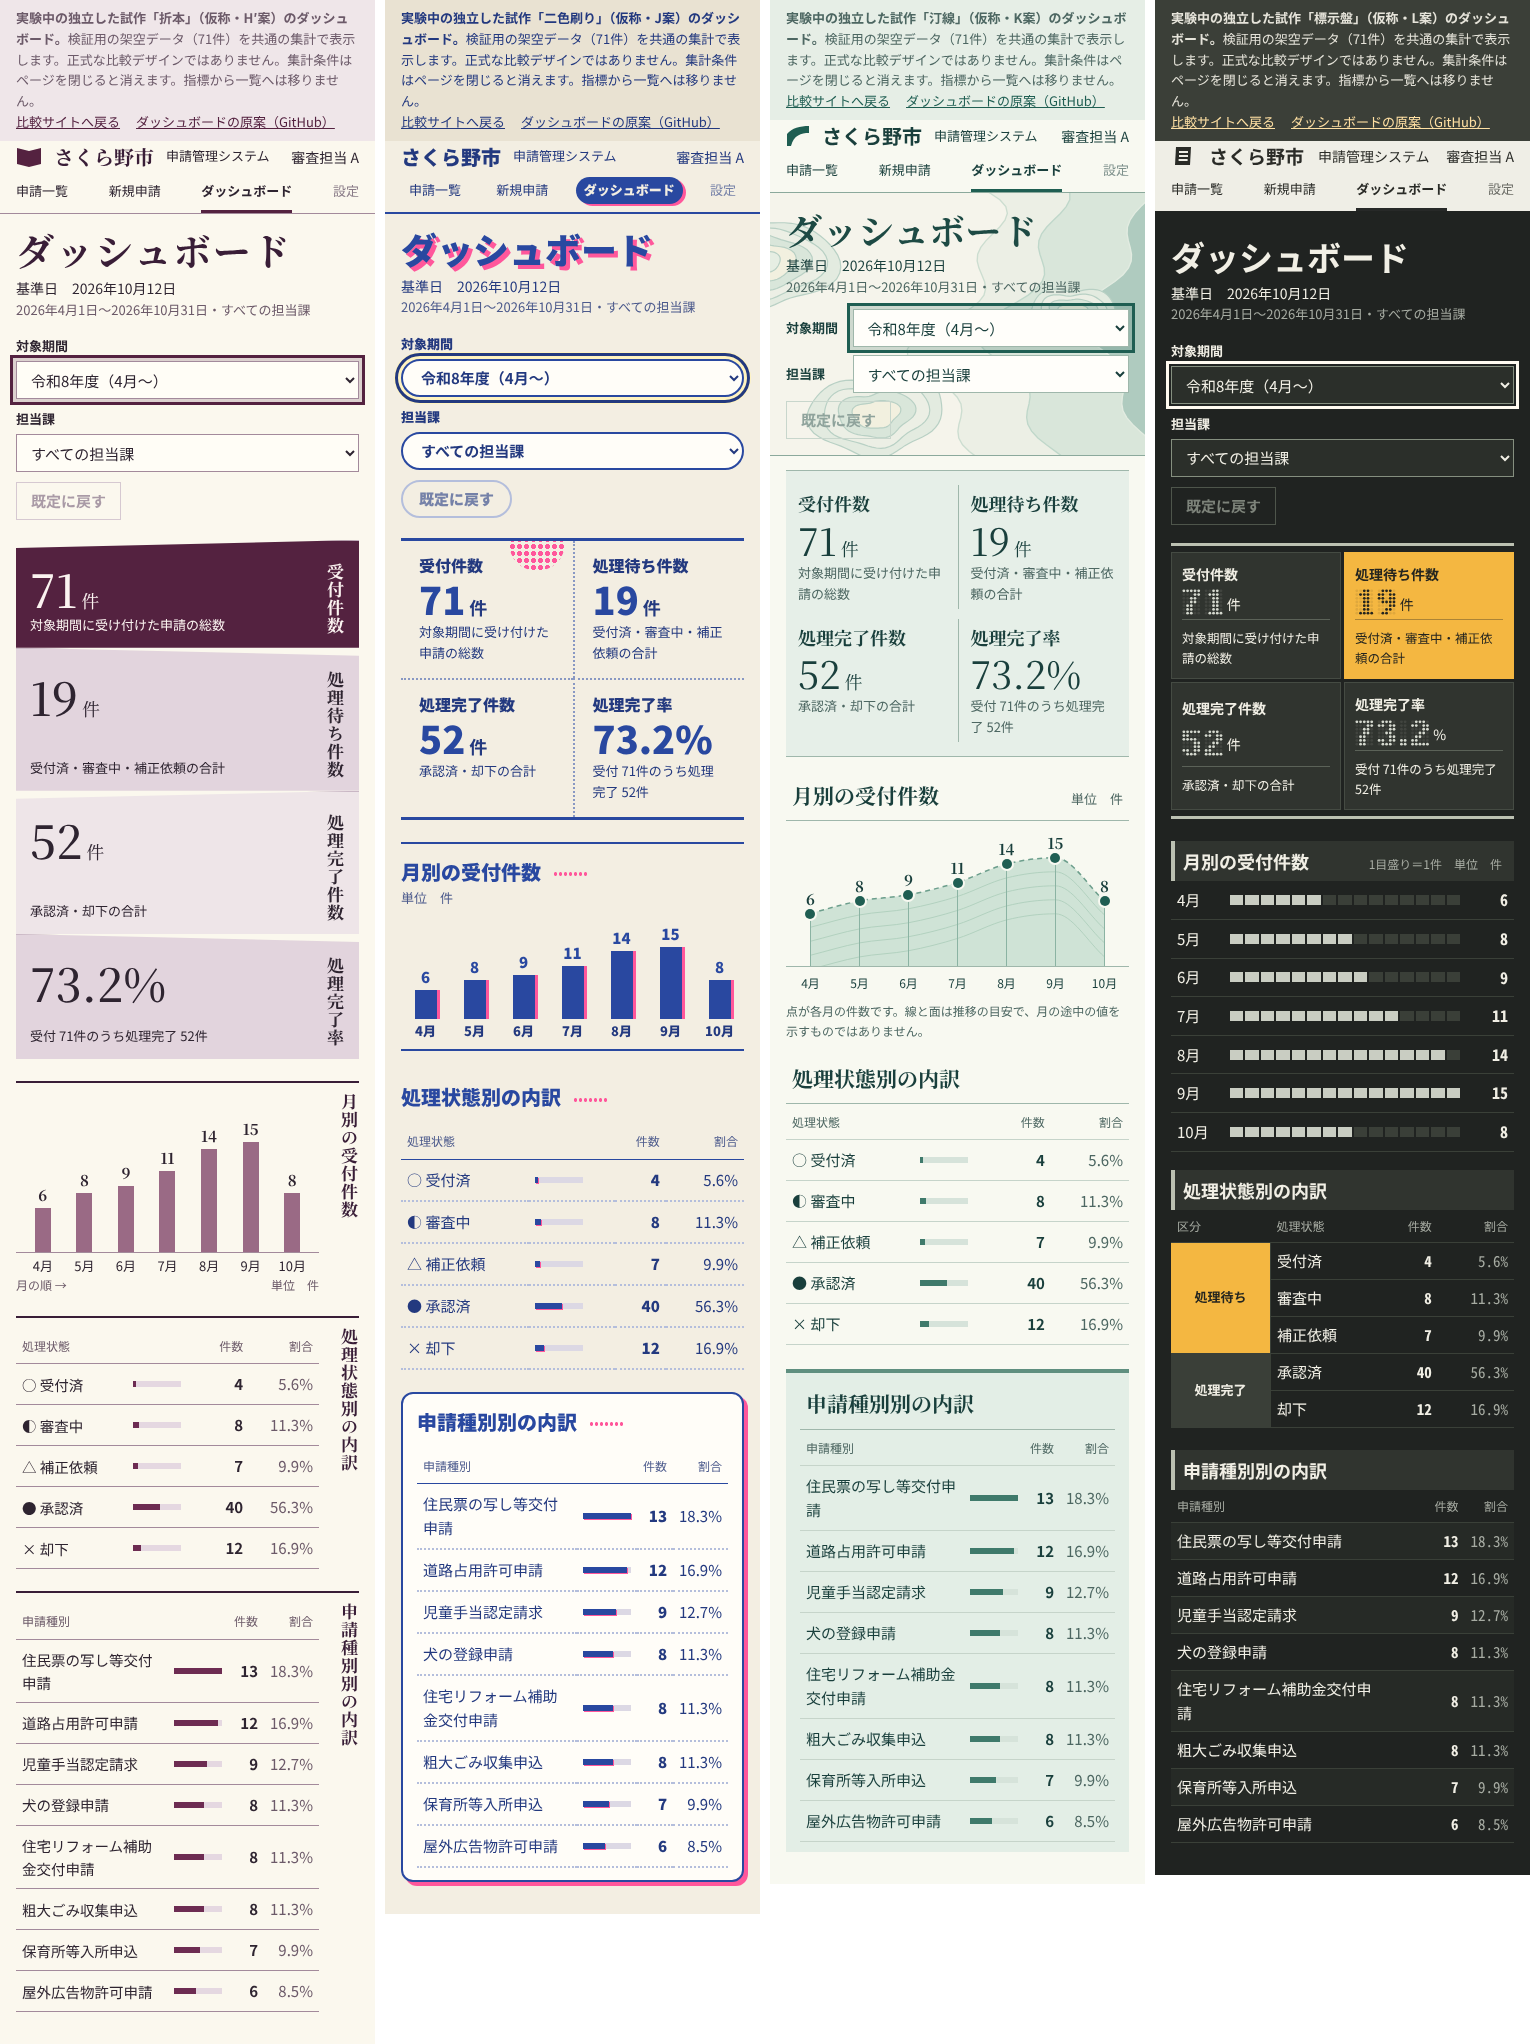
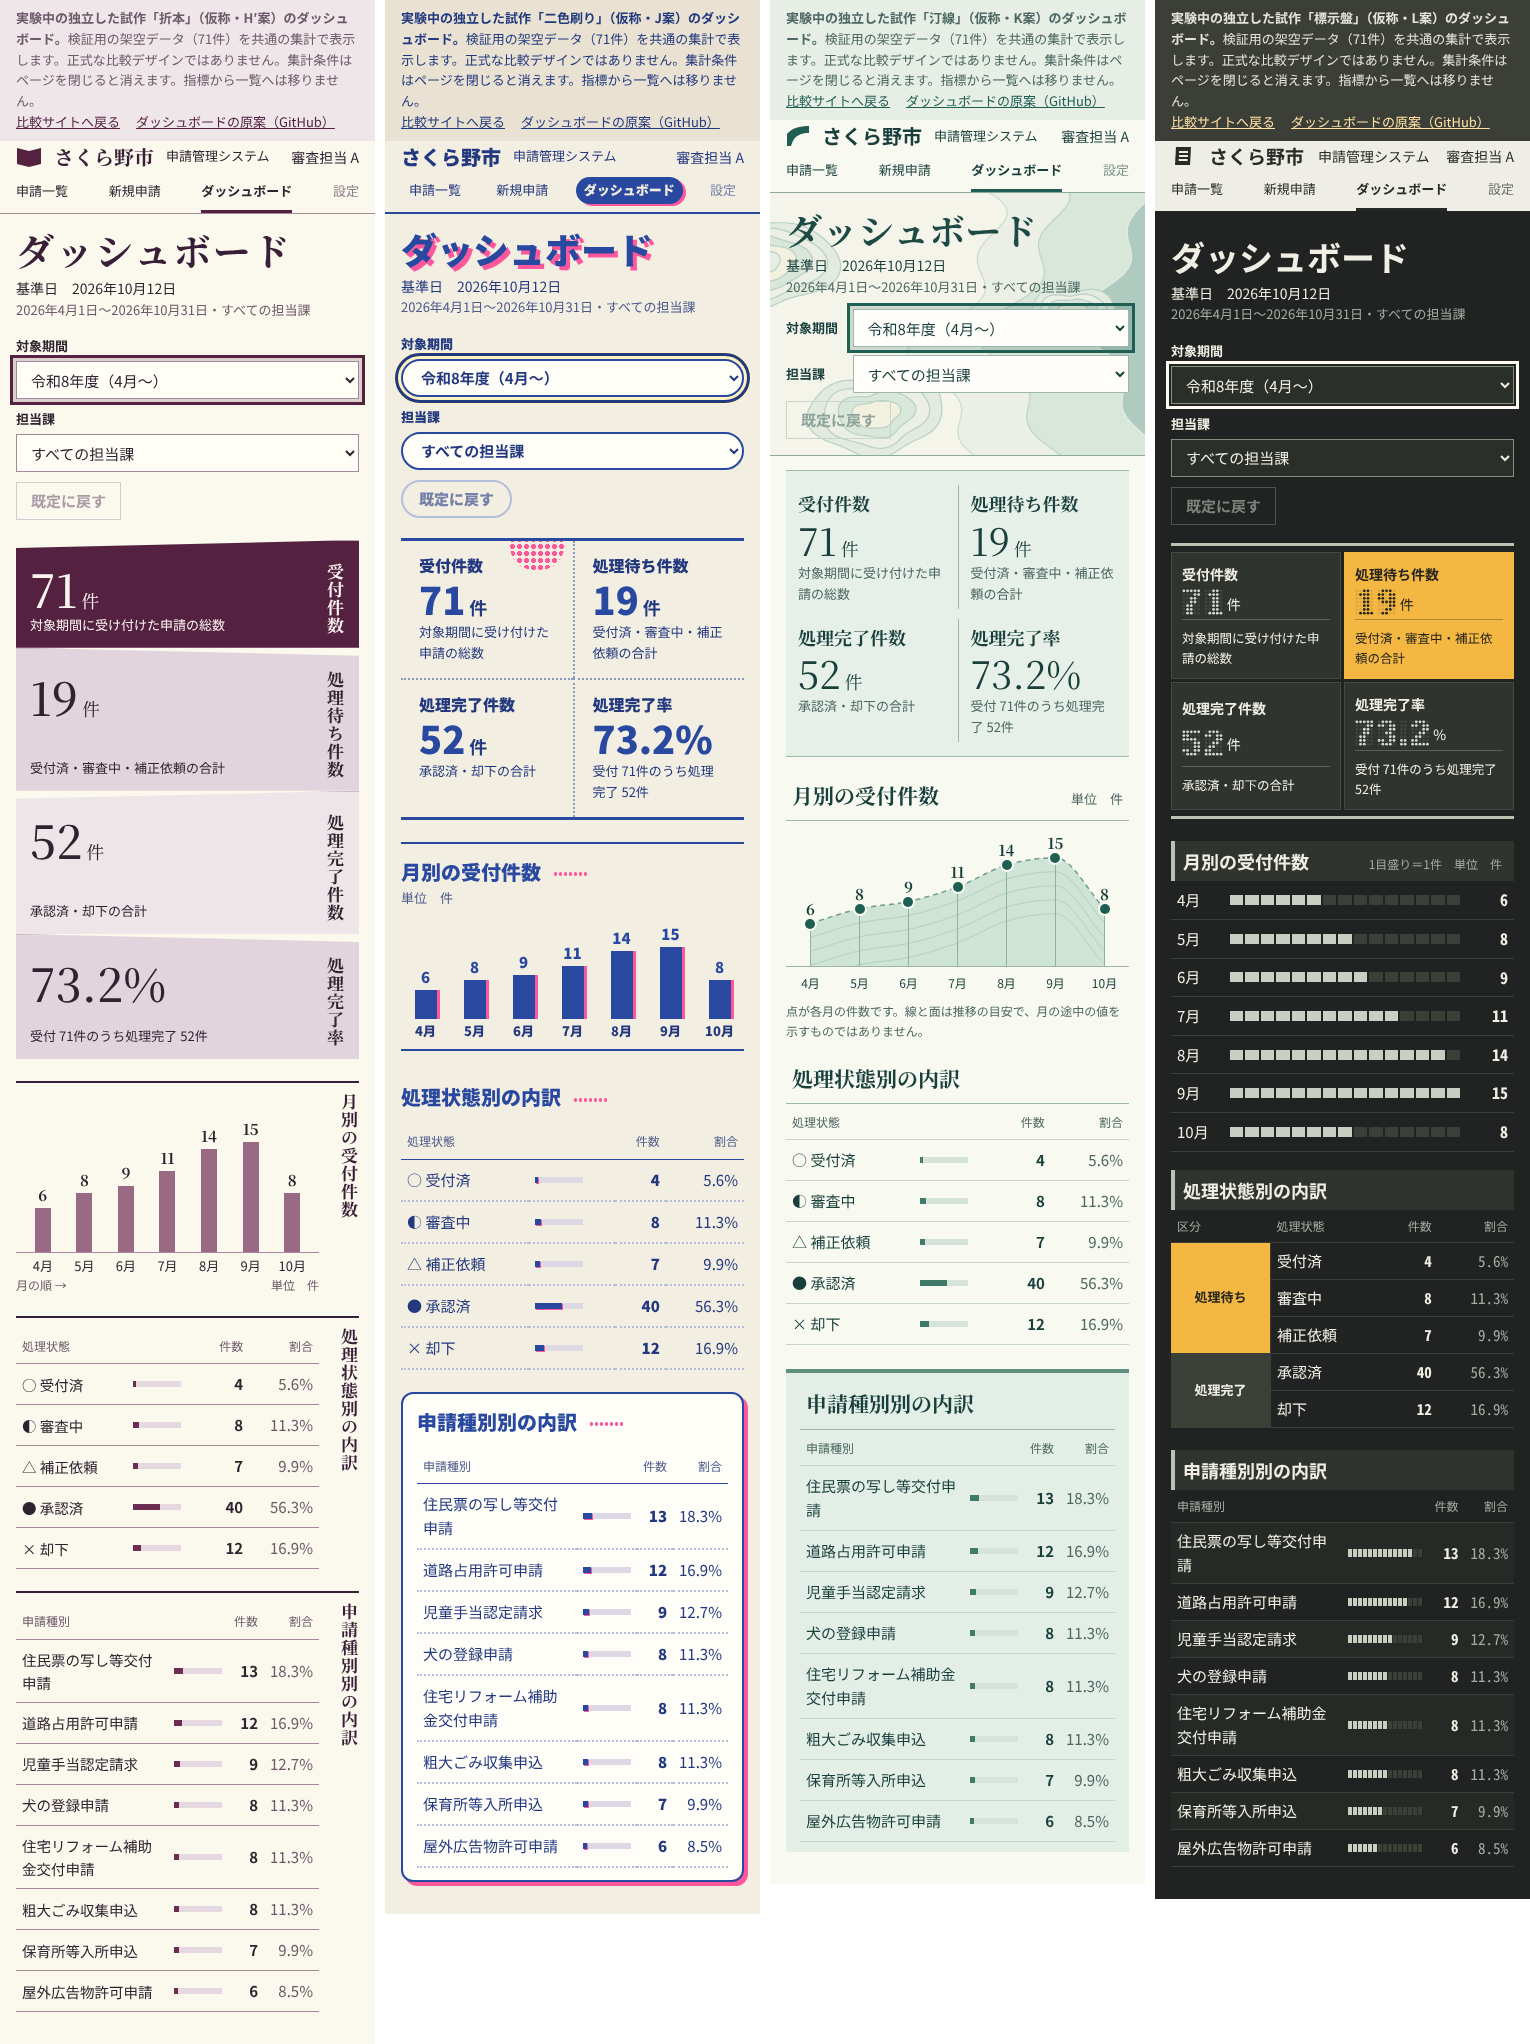
レビュー指摘に対応：種別の棒の尺度、L の375px目盛り、K の0件の月
- H′・J・K：申請種別の棒を受付総数に対する構成比で描き、隣の割合と同じ尺度にした。
  共通モデルの tenths を使い、dashboard.js は変えていない
- L：1目盛りを最低3pxにした。375px では種別の目盛り列に幅を確保し、0幅で消えないようにした
- K：点の高さを件数に比例させた（底上げしない）。0件の月は点・縦の線・面を基準線に置く
- 最小限のテストを追加
  - 棒の長さと割合（18.3%・100%）
  - K の0件の月の位置
  - L の375pxの目盛り幅と点灯数
- このPRで追加した画面写真と説明を更新

Claude-Session: https://claude.ai/code/session_016WQqJD6APGGPPhg2SEfqha

Changed region(s): [[0.7373, 0.7397, 1.0, 0.9555], [0.5222, 0.4315, 0.6144, 0.4623], [0.7065, 0.4315, 0.7373, 0.4623]]

diff --git a/site/experiments/k-shoreline-dashboard/k-dash-view.js b/site/experiments/k-shoreline-dashboard/k-dash-view.js
@@ -2,12 +2,15 @@
 // 月別は、月ごとの点・縦の目盛り線・件数で離散値を示し、滑らかな線と面は推移の目安として淡く添える。値は buildDashboardModel のまま。
 
 import { html, raw } from '../../assets/js/html.js';
-import { STATUS_MARK, conditionFields } from '../shared/dashboard-parts.js';
+import { STATUS_MARK, conditionFields, shareRatio } from '../shared/dashboard-parts.js';
 
 const bar = (ratio) => html`<span class="kd-mini" aria-hidden="true"><i style="width:${(ratio * 100).toFixed(1)}%"></i></span>`;
 
-/** 月の点の位置（横は各月の列の中央、縦は件数の比）。 */
-const points = (months) => months.map((m, i) => ({ x: ((i + 0.5) / months.length) * 100, y: 12 + m.ratio * 66, m }));
+/**
+ * 月の点の位置（横は各月の列の中央、縦は件数に比例）。0件の月は基準線（y=0）に置き、点・縦の線・面がそこから立ち上がる。
+ * 最多の月を 78%（上に件数を書く余白を残す）とする比例の目盛りで、底上げはしない。
+ */
+export const points = (months) => months.map((m, i) => ({ x: ((i + 0.5) / months.length) * 100, y: m.ratio * 78, m }));
 
 /**
  * 点を通る滑らかな曲線（単調3次補間：Fritsch–Carlson）。SVG の座標は上が 0。
@@ -63,7 +66,7 @@ const table = (caption, head, rows, empty) => html`<table class="kd-table"><capt
 
 export function view(d) {
   const statusRows = d.statuses.map((s) => html`<tr><th scope="row"><span aria-hidden="true">${STATUS_MARK[s.value]} </span>${s.label}</th><td>${bar(s.ratio)}</td><td class="kd-num" data-status="${s.value}">${s.count}</td><td class="kd-num kd-share" data-status-share="${s.value}">${s.shareText}</td></tr>`);
-  const typeRows = d.types.map((t) => html`<tr><th scope="row">${t.type}</th><td>${bar(t.ratio)}</td><td class="kd-num" data-type-count="${t.type}">${t.count}</td><td class="kd-num kd-share" data-type-share="${t.type}">${t.shareText}</td></tr>`);
+  const typeRows = d.types.map((t) => html`<tr><th scope="row">${t.type}</th><td>${bar(shareRatio(t))}</td><td class="kd-num" data-type-count="${t.type}">${t.count}</td><td class="kd-num kd-share" data-type-share="${t.type}">${t.shareText}</td></tr>`);
   return html`
     <div class="kd-hero">
       <div class="kd-hero__text">

diff --git a/site/experiments/j-risograph-dashboard/j-dash-view.js b/site/experiments/j-risograph-dashboard/j-dash-view.js
@@ -2,7 +2,7 @@
 // 青の版に数値と棒、ピンクの版は版ずれ・網点の飾りに限る。値はすべて buildDashboardModel のまま表示する。
 
 import { html } from '../../assets/js/html.js';
-import { STATUS_MARK, conditionFields } from '../shared/dashboard-parts.js';
+import { STATUS_MARK, conditionFields, shareRatio } from '../shared/dashboard-parts.js';
 
 const bar = (ratio) => html`<span class="jd-mini" aria-hidden="true"><i style="width:${(ratio * 100).toFixed(1)}%"></i></span>`;
 
@@ -12,7 +12,7 @@ const table = (caption, head, rows, empty) => html`<table class="jd-table"><capt
 
 export function view(d) {
   const statusRows = d.statuses.map((s) => html`<tr><th scope="row"><span aria-hidden="true">${STATUS_MARK[s.value]} </span>${s.label}</th><td>${bar(s.ratio)}</td><td class="jd-num" data-status="${s.value}">${s.count}</td><td class="jd-num jd-share" data-status-share="${s.value}">${s.shareText}</td></tr>`);
-  const typeRows = d.types.map((t) => html`<tr><th scope="row">${t.type}</th><td>${bar(t.ratio)}</td><td class="jd-num" data-type-count="${t.type}">${t.count}</td><td class="jd-num jd-share" data-type-share="${t.type}">${t.shareText}</td></tr>`);
+  const typeRows = d.types.map((t) => html`<tr><th scope="row">${t.type}</th><td>${bar(shareRatio(t))}</td><td class="jd-num" data-type-count="${t.type}">${t.count}</td><td class="jd-num jd-share" data-type-share="${t.type}">${t.shareText}</td></tr>`);
   return html`
     <div class="jd-head">
       <div><h1 class="jd-title" data-text="ダッシュボード">ダッシュボード</h1><p class="jd-ref">基準日　${d.refDate}<span>${d.period.rangeText}・${d.dept || 'すべての担当課'}</span></p></div>

diff --git a/site/experiments/h-prime-dashboard/h-dash-view.js b/site/experiments/h-prime-dashboard/h-dash-view.js
@@ -2,7 +2,7 @@
 // 指標は右端の受付件数から左へ（DOM の順＝右から）、月別は左から右へ時系列。値はすべて buildDashboardModel のまま表示する。
 
 import { html } from '../../assets/js/html.js';
-import { STATUS_MARK, conditionFields } from '../shared/dashboard-parts.js';
+import { STATUS_MARK, conditionFields, shareRatio } from '../shared/dashboard-parts.js';
 
 const bar = (ratio) => html`<span class="hd-mini" aria-hidden="true"><i style="width:${(ratio * 100).toFixed(1)}%"></i></span>`;
 
@@ -41,7 +41,7 @@ function statuses(d) {
 }
 
 function types(d) {
-  const rows = d.types.map((t) => html`<tr><th scope="row">${t.type}</th><td>${bar(t.ratio)}</td><td class="hd-num" data-type-count="${t.type}">${t.count}</td><td class="hd-num hd-share" data-type-share="${t.type}">${t.shareText}</td></tr>`);
+  const rows = d.types.map((t) => html`<tr><th scope="row">${t.type}</th><td>${bar(shareRatio(t))}</td><td class="hd-num" data-type-count="${t.type}">${t.count}</td><td class="hd-num hd-share" data-type-share="${t.type}">${t.shareText}</td></tr>`);
   return html`<section class="hd-sec" aria-labelledby="hd-types"><div class="hd-sec__body">${table('申請種別別の内訳', '申請種別', rows, 'この条件に該当する申請はありません。')}</div><h2 class="hd-sec__title" id="hd-types">申請種別別の内訳</h2></section>`;
 }
 

diff --git a/site/experiments/l-signage-dashboard/l-dash.css b/site/experiments/l-signage-dashboard/l-dash.css
@@ -100,7 +100,7 @@ button, input, select, textarea { font: inherit; color: inherit; }
 .ld-empty { padding: 18px 10px; text-align: center !important; color: var(--ls-muted); }
 
 /* 1目盛り＝1件の点灯 */
-.ld-ticks { display: grid; grid-template-columns: repeat(var(--n), minmax(0, 1fr)); gap: 2px; }
+.ld-ticks { display: grid; grid-template-columns: repeat(var(--n), minmax(3px, 1fr)); gap: 2px; } /* 1目盛りは最低 3px：列が狭くても0幅にしない */
 .ld-ticks i { height: 10px; background: #3a3f38; }
 .ld-ticks i.on { background: #c9cdc2; }
 .ld-table--types .ld-ticks { max-width: 140px; margin-left: auto; }
@@ -125,5 +125,6 @@ button, input, select, textarea { font: inherit; color: inherit; }
   .ld-dots { height: 26px; width: calc(var(--w) * 26px / 7); }
   .ld-table th, .ld-table td { padding: 6px; }
   .ld-table .ld-group__label { width: auto; padding: 6px; font-size: 13px; white-space: nowrap; }
-  .ld-table--types .ld-ticks { max-width: 70px; }
+  /* 種別名が長くても目盛りの列幅を確保する（15目盛り×4px＋間 1px） */
+  .ld-table--types .ld-ticks { width: 74px; max-width: none; gap: 1px; grid-template-columns: repeat(var(--n), minmax(0, 1fr)); }
 }

diff --git a/site/experiments/shared/dashboard-parts.js b/site/experiments/shared/dashboard-parts.js
@@ -12,6 +12,12 @@ export function conditionFields(d, prefix) {
     <button type="button" class="${prefix}-reset" data-action="reset" aria-disabled="${String(d.isDefault)}">既定に戻す</button>`;
 }
 
+/**
+ * 割合（受付総数に対する構成比）を棒の長さ 0〜1 にする。共通モデルの tenths（0.1% 単位、0件なら null）をそのまま使い、
+ * 隣に出す割合の文字（shareText）と同じ尺度にする。共通モデルの types[].ratio は「最多の種別＝1」なので棒には使わない。
+ */
+export const shareRatio = (item) => (item.tenths == null ? 0 : item.tenths / 1000);
+
 /** 状態の記号（色に頼らない手がかり）。 */
 export const STATUS_MARK = { received: '○', reviewing: '◐', returned: '△', approved: '●', rejected: '×' };
 

diff --git a/docs/dashboard-prototypes/README.md b/docs/dashboard-prototypes/README.md
@@ -17,6 +17,7 @@
 - 対象期間か担当課を変えると、指標・月別・処理状態別・申請種別別がそろって更新される。見出しの下に対象の期間と担当課を文字で出し、集計した結果を読み上げる。
 - 「既定に戻す」で両方の条件を戻し、フォーカスは対象期間に移る。既定のときは押せない状態（`aria-disabled`）で示す。
 - 該当が0件のときは、割合を「—」で示し、0除算の NaN や誤った 100% を出さない（共通モデルの値のまま）。種別の表には「この条件に該当する申請はありません。」と出す。
+- 処理状態別・申請種別別の棒は、どちらも受付総数に対する構成比で描き、隣の割合の数字と同じ尺度にする（共通モデルの割合の値をそのまま使う）。
 - 処理状態は色だけに頼らない。H′・J・K は記号（○ 受付済・◐ 審査中・△ 補正依頼・● 承認済・× 却下）を添え、L は「処理待ち／処理完了」の区分を文字で示す。
 - 状態とイベントは小さな共通の制御（[dashboard-poc.js](../../site/experiments/shared/dashboard-poc.js)）にまとめ、見た目は各案の `*-dash-view.js` が持つ。設定画面は対象外で、ナビでは無効の表示にしている。
 
@@ -24,8 +25,8 @@
 
 - **H′ 折本**　指標は右端の受付件数から左へ読む（「指標は右端から ←」）。月別は左から右へ時系列（「月の順 →」）で、向きの切り替わりを文字で示す。375px では指標を受付件数から縦に積む。
 - **J 二色刷り**　網点は最初の指標の右上に置き、上の罫で切る。数値と説明文には掛からない位置にし、文字はつねに網点より上に描く。ピンクは版ずれ・網点の飾りに限り、数値と棒は青で示す。
-- **K 汀線**　各月の値は、点・縦の線・点の真上の件数で示す。線（破線）と面は推移の目安として淡く添え、単調3次補間で描くので、隣り合う2か月の値の範囲から上にも下にもはみ出さない（月の途中に山や谷を作らない）。グラフの下に「点が各月の件数です。線と面は推移の目安で、月の途中の値を示すものではありません。」と注記する。記号的な飾りは足していない。
-- **L 標示盤**　ドット文字は上段の4指標だけに使う。1桁の値は消灯の桁で盤面の幅をそろえ、0 で埋めない（「08件」と読めないようにする）。月別と種別別は「1目盛り＝1件」の点灯で、目盛りの数は最大値を5の倍数に切り上げる。右端に実数を出すので、1目盛りの差も数字で確かめられる。処理状態の表は、処理待ちの区分を上段の処理待ち件数と同じ琥珀で結ぶ。
+- **K 汀線**　各月の値は、点・縦の線・点の真上の件数で示す。点の高さは件数に比例し、0件の月は点・縦の線・面を基準線に置く。線（破線）と面は推移の目安として淡く添え、単調3次補間で描くので、隣り合う2か月の値の範囲から上にも下にもはみ出さない（月の途中に山や谷を作らない）。グラフの下に「点が各月の件数です。線と面は推移の目安で、月の途中の値を示すものではありません。」と注記する。記号的な飾りは足していない。
+- **L 標示盤**　ドット文字は上段の4指標だけに使う。1桁の値は消灯の桁で盤面の幅をそろえ、0 で埋めない（「08件」と読めないようにする）。月別と種別別は「1目盛り＝1件」の点灯で、目盛りの数は最大値を5の倍数に切り上げる。375px でも種別名の長さにかかわらず目盛りの列幅を確保する。右端に実数を出すので、1目盛りの差も数字で確かめられる。処理状態の表は、処理待ちの区分を上段の処理待ち件数と同じ琥珀で結ぶ。
 
 ## 原案からの変更
 
@@ -34,7 +35,7 @@
 - H′・J は、月別の件数を棒の真上に置いた。原案と同じ配置で、棒の高さは1つの固定の高さに対する比で描く。
 - H′・J・K の処理状態に記号を添えた。
 - J は、網点を説明文から外した（原案では説明文の末尾に重なっていた）。
-- K は、曲線を単調補間の破線にした。各月の点に縦の線を足し、注記を足した。
+- K は、曲線を単調補間の破線にした。各月の点に縦の線を足し、注記を足した。点の高さは底上げせず件数に比例させた。
 - L は、処理完了率の「%」をドット文字にせず単位として添えた。
 
 ## 確かめたこと
@@ -44,10 +45,11 @@
   - 既定の値が71／19／52／73.2%である。
   - 0件でも NaN・Infinity・100% を出さず、割合を「—」で示す。
   - 一覧へのリンクがない。
-  - K の曲線の制御点が、隣り合う月の値の範囲に収まる。
+  - K の曲線の制御点が、隣り合う月の値の範囲に収まる。0件の月は基準線に置く。
+  - H′・J・K の種別の棒の長さが割合と一致する（13件／71件で18.3%、8件／8件で100%）。
 - E2E（[hjkl-dashboards.spec.mjs](../../tests/e2e/hjkl-dashboards.spec.mjs)）　4案それぞれで次を確かめた。
   - 既定の値。
   - 対象期間をキーボード（↓）で変え、Tab で担当課へ進んで市民課にする。全体が8／2／6／75.0%に更新され、読み上げとタイトルも変わる。
   - URL とストレージは変わらない。
   - Tab と Enter で既定に戻し、フォーカスが対象期間に移る。
-  - 375px で横にはみ出さない。
+  - 375px で横にはみ出さない。L は種別の目盛りが幅を持ち、先頭行（13件）が13目盛り点灯する。
